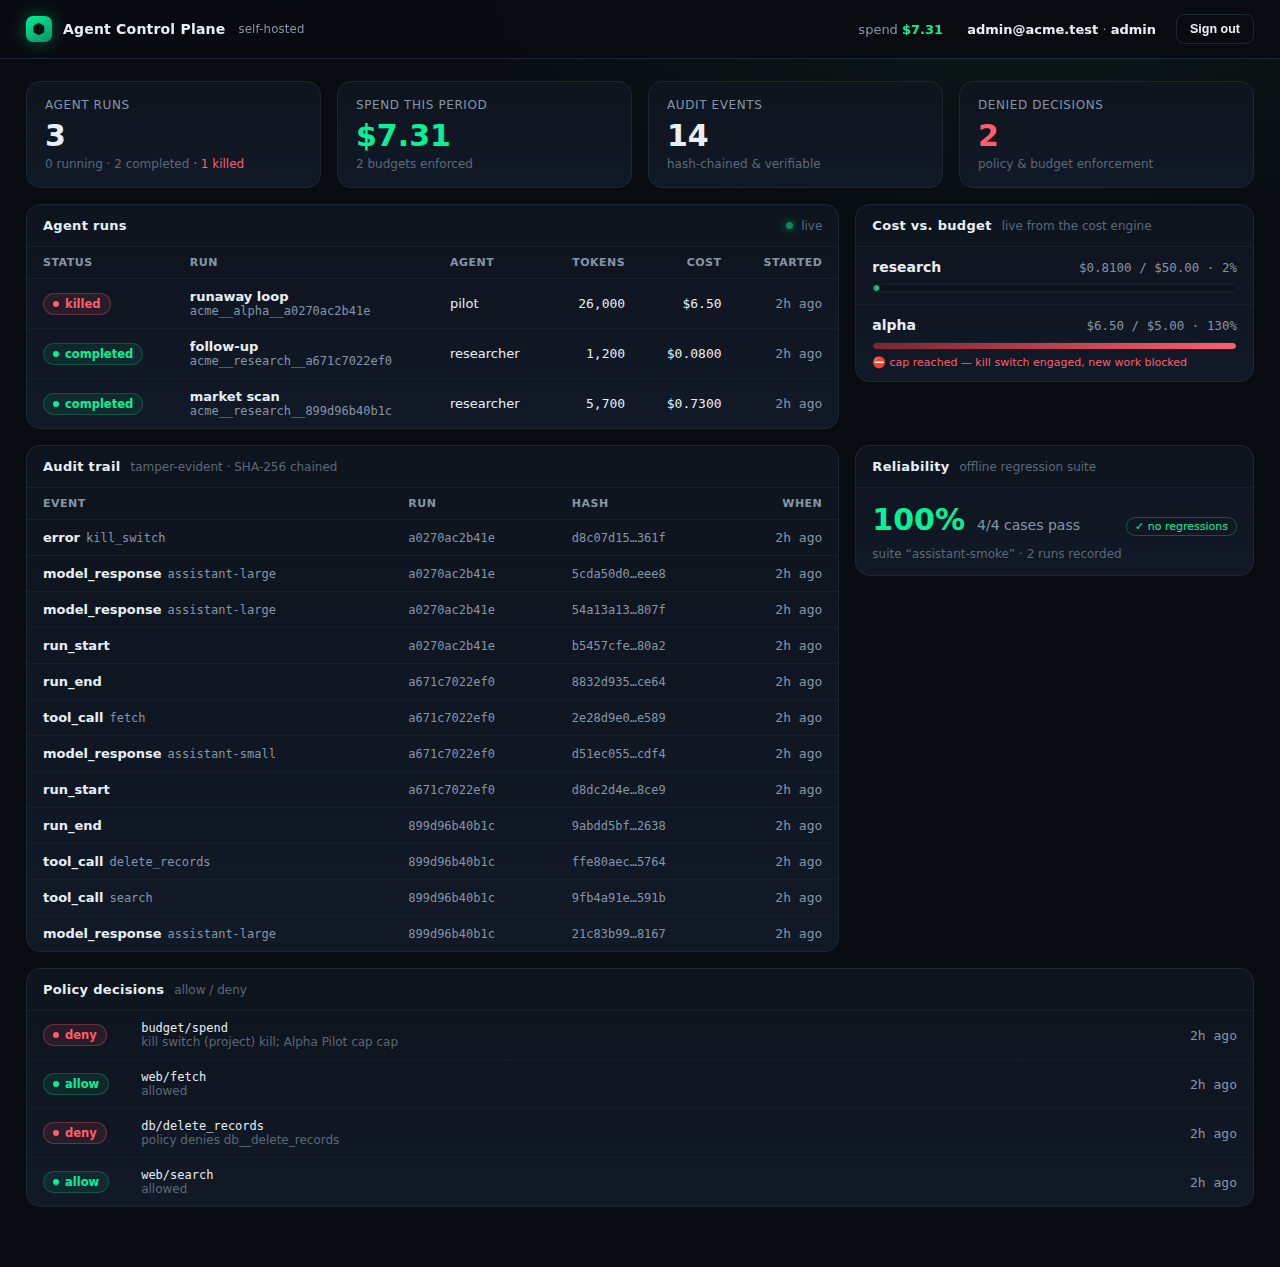
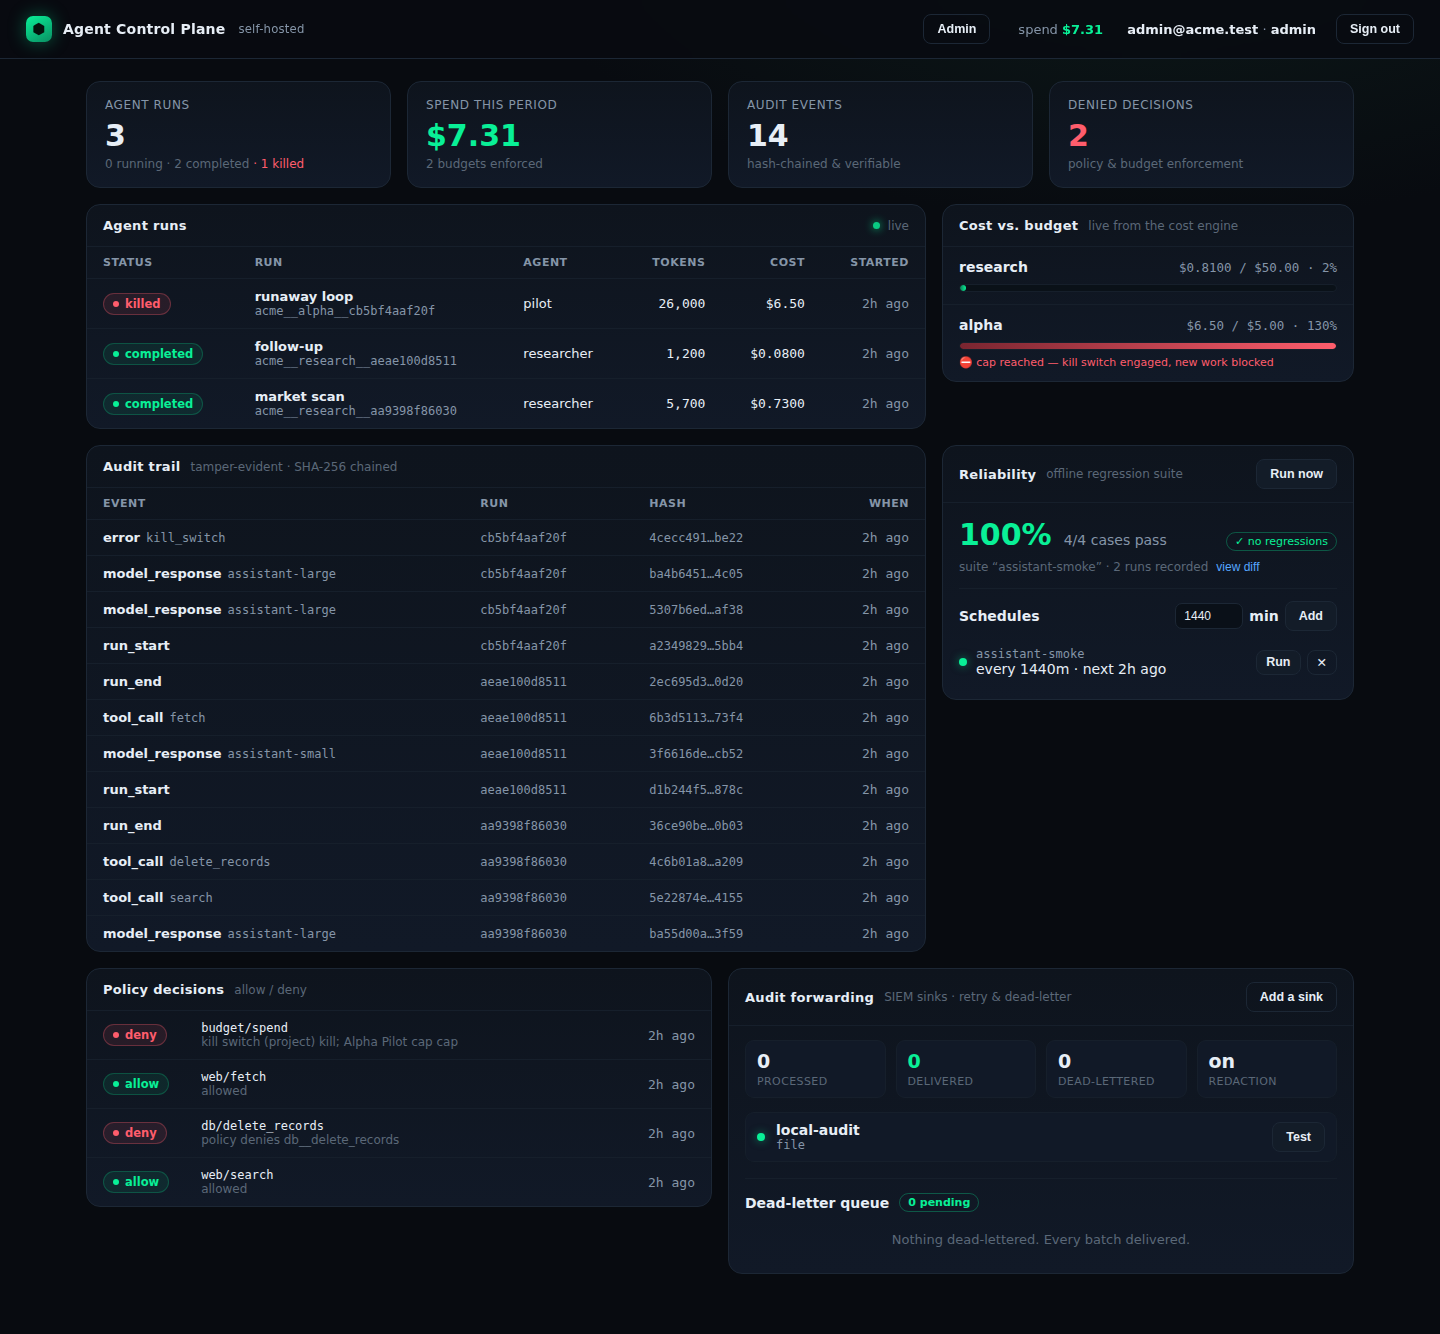
Phase 2I: README, architecture diagram, and compliance docs
Bring the docs up to the phase-2 product: the README's "what it does" now covers
API-key ingest, SIEM sink health + DLQ, the cost timeline / burn rate / live
budget alerts, eval scheduling + gate, the admin view, and migrations, with a
pointer to the quickstart SDK; the diagram shows the operator-vs-agent auth split
and the new projection tables. architecture.md gains a "what phase 2 adds"
section, a two-path auth section, and an updated engine table (the gateway engine
now backs both JWT and API-key auth). Adds docs/self-hosting-compliance.md — data
residency, egress, the tamper-evidence threat model and its limits, RBAC, tenant
isolation, cost governance, gating, and what it deliberately is not. Refreshes the
cockpit hero screenshot.

diff --git a/docs/architecture.md b/docs/architecture.md
@@ -32,20 +32,21 @@ on top for the dashboard and the API.
             ┌────────────────────┘   │   │   └─────────────────────────┐
             ▼                        ▼   ▼                             ▼
    ┌─────────────────┐   ┌──────────────────┐   ┌──────────────┐  ┌──────────────┐
-   │  cost engine    │   │  recorder engine │   │ audit/SIEM   │  │ policy engine│
-   │ (spend caps +   │   │ (tamper-evident  │   │ forwarder    │  │ (allow/deny) │
-   │  kill switch)   │   │  hash-chained    │   │ (file/Splunk/│  │              │
-   │                 │   │  run timeline)   │   │  Elastic/... │  │              │
-   │  SQLite ledger  │   │  append-only     │   │  file sink + │  │  rules in    │
+   │  cost engine    │   │  recorder engine │   │ audit/SIEM   │  │ gateway eng. │
+   │ (spend caps +   │   │ (tamper-evident  │   │ forwarder    │  │ (policy +    │
+   │  kill switch +  │   │  hash-chained    │   │ (file/Splunk/│  │  JWT + API-  │
+   │  alerts)        │   │  run timeline,   │   │  Elastic/... │  │  key auth)   │
+   │  SQLite ledger  │   │  restart-durable)│   │  file sink + │  │  rules in    │
    │                 │   │  JSONL per run   │   │  DLQ         │  │  config      │
    └─────────────────┘   └──────────────────┘   └──────────────┘  └──────────────┘
-            └──────────────── eval engine (reliability/regression, SQLite) ───────┘
+            └───────── eval engine (reliability/regression + gate, SQLite) ───────┘
 
                           ┌──────────────────────────────────────────┐
                           │     PostgreSQL — unified projection        │
                           │  tenants · users · projects · runs ·        │
                           │  run_events · policy_decisions ·            │
-                          │  audit_entries · eval_runs                  │
+                          │  api_keys · eval_runs · eval_schedules      │
+                          │  (schema owned by Alembic migrations)       │
                           └──────────────────────────────────────────┘
 ```
 
@@ -56,11 +57,16 @@ guarantees something the projection cannot:
 
 | Engine | Owns | Guarantee it provides |
 | --- | --- | --- |
-| **cost** | the spend ledger | integer micro-dollar accounting, no float drift; budgets that latch a kill switch |
+| **cost** | the spend ledger | integer micro-dollar accounting, no float drift; budgets that latch a kill switch and emit threshold/cap/kill alerts |
 | **recorder** | the run timeline | append-only JSONL sealed with a SHA-256 hash chain — reordering, editing, or deleting any event is detectable |
 | **audit/SIEM** | forwarding | normalization + redaction + reliable delivery (retry + dead-letter) to Splunk/Elastic/Datadog/webhook/file |
-| **policy** | access decisions | deny-by-precedence rule evaluation against an identity |
+| **gateway** | access + identity | deny-by-precedence policy against an identity; JWT minting/verification for users and constant-time API-key auth for agents |
 | **eval** | reliability history | suite runs, scoring, and regression vs. a pinned baseline |
+
+The **gateway** engine is composed twice: its `PolicyEngine` decides tool
+allow/deny, and its auth machinery backs both human logins (HS256 JWTs via
+`encode_jwt_hs256` / `OAuth2Verifier`) and per-project agent keys (its
+`Authenticator`, which does the header parsing and constant-time digest match).
 
 PostgreSQL is **not** another source of truth. It is a fast, joinable projection that
 the API writes to inside the same request that calls an engine. The dashboard reads
@@ -86,6 +92,37 @@ A single ingested run exercises every engine:
 5. **Show it.** The dashboard streams the run, its cost-vs-budget, the allow/deny
    decisions, and the audit trail live over a WebSocket, and can verify the chain.
 
+## What phase 2 adds
+
+Phase 2 hardens the same slice into something you can run and hand off in
+production, without changing the model above:
+
+- **Durable recorder state.** The recorder records in-process, so a backend
+  restart used to lose an in-flight run's chain cursor. The hub now rehydrates
+  `seq` / `prev_hash` / byte count from the recorder's own on-disk record the
+  first time a restarted process touches a run, so events before and after a
+  restart form one unbroken chain. (`EngineHub._resume_run`.)
+- **Agent authentication.** Agents POST runs with a per-project API key instead
+  of an operator token. The key digest (never the plaintext) lives in
+  `api_keys`; the hub builds the gateway's `Authenticator` from the active keys
+  and rebuilds it on any change. An API-key principal is scoped to exactly one
+  project — it cannot open or touch a run in another.
+- **Migrations.** Alembic owns the schema and the API brings it to `head` on
+  startup (in a worker thread, since env.py drives an async engine). SQLite gets
+  batch-mode ALTERs; a test asserts zero drift between the migrations and the
+  models.
+- **SIEM operations.** `/siem/*` surfaces the live pipeline — configured sinks,
+  a per-sink connectivity self-test, delivery stats, and the dead-letter queue
+  with one-click replay to the original sink. Sinks stay configured as code.
+- **Cost feed.** Per-run cumulative cost/tokens and a burn rate power a chart in
+  the run drawer; the cost engine's threshold/cap/kill alerts ride the live feed
+  as toasts.
+- **Eval scheduling + gate.** A background loop runs due `eval_schedules`; each
+  run stores its regression diff (`compare_runs`). A project's `eval_gate_suite`
+  makes new runs 409 while that suite's latest run is regressed.
+- **Administration.** Tenants (superadmin), users, projects, budgets, gates, and
+  API keys are all managed from the dashboard.
+
 ## Multi-tenancy
 
 Every row in the projection carries a `tenant_id`. Engine state is partitioned by
@@ -96,11 +133,20 @@ tenant on its access token.
 
 ## Auth
 
-Passwords are stored as bcrypt hashes. Access tokens are HS256 JWTs minted and
-verified with the gateway engine's own crypto (`encode_jwt_hs256` /
-`OAuth2Verifier`), so the same audited token machinery that guards tool calls guards
-the dashboard. Tokens carry the subject, tenant, and roles; every protected route
-resolves them into a scoped identity.
+There are two credential paths, both backed by the gateway engine's own crypto:
+
+- **Operators** log in with a password (bcrypt-hashed) and receive an HS256 JWT
+  minted and verified with `encode_jwt_hs256` / `OAuth2Verifier`. Tokens carry
+  the subject, tenant, and roles; every protected route resolves them into a
+  scoped identity.
+- **Agents** present a per-project API key on ingest routes. The gateway's
+  `Authenticator` parses the header (`Authorization: Bearer`/`ApiKey` or
+  `X-API-Key`) and matches the key's SHA-256 digest in constant time, yielding an
+  `agent` principal scoped to that project. The ingest routes accept either
+  credential; read routes stay operator-only.
+
+So the same audited token machinery that guards tool calls guards the dashboard,
+and agents authenticate without ever holding an operator login.
 
 ## Self-host & compliance posture
 

diff --git a/README.md b/README.md
@@ -28,7 +28,8 @@ it at your own log sink.
 ## What it does
 
 - **Live observability** — every agent run streams into a dark cockpit
-  dashboard over a WebSocket: status, tokens, cost, and a per-run timeline.
+  dashboard over a WebSocket: status, tokens, cost, a per-run cost timeline with
+  a burn-rate curve, and budget alerts that pop the moment a cap is crossed.
 - **Cost control with teeth** — per-project budgets in integer micro-dollars
   (no float drift). Cross a hard cap and the kill switch latches: further work
   is denied until someone with the right role releases it.
@@ -37,9 +38,28 @@ it at your own log sink.
 - **A tamper-evident audit trail** — every event in a run is sealed into a
   SHA-256 hash chain. Reorder, edit, insert, or delete a single event and
   verification reports exactly where the chain broke. "Show me everything that
-  agent did, and prove it wasn't edited" is a query, not a promise.
-- **Reliability tracking** — run a regression suite against a pinned baseline.
-  The bundled suite is fully offline, so it works in an air-gapped install.
+  agent did, and prove it wasn't edited" is a query, not a promise. The chain
+  survives a backend restart mid-run: it's rehydrated from the durable record,
+  so the hashes stay continuous across process boundaries.
+- **Agents authenticate themselves** — each project mints its own API keys, so
+  the agents and SDKs that report runs never touch an operator login. Only the
+  key's hash is stored; the plaintext is shown once.
+- **Audit forwarding you can watch** — see every configured SIEM sink, test its
+  reachability, watch delivery stats, and replay anything that dead-lettered,
+  right from the dashboard. Copy-paste presets for Splunk, Elasticsearch,
+  Datadog, a webhook, or a local file.
+- **Reliability with a gate** — run a regression suite against a pinned
+  baseline, on a schedule, and read the case-by-case diff. Put an *eval gate* on
+  a project and new runs are refused while that suite is regressed. The bundled
+  suite is fully offline, so it works in an air-gapped install.
+- **Admin without leaving the cockpit** — create tenants, users, and projects,
+  set budgets and gates, and manage API keys from an admin view.
+- **Real migrations** — the schema is owned by Alembic and brought to head on
+  startup, so it evolves cleanly in production instead of relying on first-run
+  table creation.
+
+Reporting a run from your own agent is a few lines — see the dependency-free
+[quickstart SDK](examples/sdk/).
 
 ## How it's built
 
@@ -48,27 +68,31 @@ engines, each of which owns its own authoritative store, and projects a single,
 multi-tenant, queryable view on top for the dashboard and API.
 
 ```
-                       Browser — dark cockpit dashboard (SPA)
-                                     │  HTTPS / JSON + WebSocket
-                       ┌─────────────▼──────────────┐
-                       │     Control Plane API        │  FastAPI, async
-                       │  auth · tenancy · ingest ·   │
-                       │  projections · live feed     │
-                       └──┬────┬────┬────┬────┬────────┘
+     Operators (dashboard, JWT)          Agents & SDKs (per-project API key)
+                     │                                   │
+                     └───────────────┬───────────────────┘
+                        HTTPS / JSON + WebSocket
+                       ┌─────────────▼───────────────────┐
+                       │       Control Plane API           │  FastAPI, async
+                       │  auth · tenancy · api-key ingest · │
+                       │  projections · live feed ·         │
+                       │  Alembic migrations · eval sched   │
+                       └──┬────┬────┬────┬────┬─────────────┘
               ┌───────────┘    │    │    │    └───────────┐
               ▼                ▼    ▼    ▼                ▼
         ┌──────────┐   ┌────────────┐ ┌──────────┐ ┌──────────┐ ┌──────────┐
-        │  cost    │   │  recorder  │ │ audit/   │ │ policy   │ │  eval    │
-        │ caps +   │   │ hash-chain │ │ SIEM     │ │ allow/   │ │ regress  │
-        │ kill sw  │   │ run log    │ │ forward  │ │ deny     │ │ baseline │
-        │ (SQLite) │   │ (JSONL)    │ │(file/…)  │ │ (rules)  │ │ (SQLite) │
+        │  cost    │   │  recorder  │ │ audit/   │ │ gateway  │ │  eval    │
+        │ caps +   │   │ hash-chain │ │ SIEM     │ │ policy + │ │ regress  │
+        │ kill sw  │   │ run log    │ │ forward  │ │ auth     │ │ + gate   │
+        │ (SQLite) │   │ (JSONL)    │ │ + DLQ    │ │ (rules)  │ │ (SQLite) │
         └──────────┘   └────────────┘ └──────────┘ └──────────┘ └──────────┘
                                      │
                        ┌─────────────▼──────────────┐
                        │   PostgreSQL — unified       │
-                       │   projection (tenants,       │
-                       │   users, projects, runs,     │
-                       │   events, decisions, evals)  │
+                       │   projection (tenants, users,│
+                       │   projects, runs, events,    │
+                       │   decisions, api_keys, evals,│
+                       │   eval_schedules)            │
                        └──────────────────────────────┘
 ```
 
@@ -95,6 +119,10 @@ React + TypeScript + Vite · Docker Compose.
   request can only ever touch its own tenant's data and engine scopes.
 - **Tamper-evident by construction**, so the audit trail holds up to scrutiny
   rather than asking for trust.
+
+The full write-up — data residency, egress, the tamper-evidence threat model and
+its limits, retention, and RBAC — is in
+[docs/self-hosting-compliance.md](docs/self-hosting-compliance.md).
 
 ## Quick start (Docker)
 
@@ -154,16 +182,21 @@ make build           # type-check and build the dashboard
 
 The suite ingests runs, trips a real budget cap, asserts the kill switch and the
 allow/deny decisions, tampers with an on-disk record and confirms verification
-catches it, and exercises the live WebSocket.
+catches it, keeps the hash chain intact across a simulated restart, authenticates
+an agent with a project API key, checks migrations build the schema with no
+drift, drives the SIEM DLQ and replay, streams budget alerts over the WebSocket,
+runs and gates evals, and exercises the tenant/user/project admin routes.
 
 ## Project layout
 
 ```
 backend/    FastAPI app — config, data model, auth, engine adapters, routers, tests
+backend/alembic/  migration history (schema is brought to head on startup)
 frontend/   React + TypeScript cockpit dashboard
 deploy/     Dockerfiles + nginx config
 scripts/    dev-setup, vendor-engines, up, publish
-docs/        architecture notes + diagram
+examples/   dependency-free quickstart SDK
+docs/       architecture, self-host/compliance guarantees, diagram
 ```
 
 ## License

diff --git a/docs/self-hosting-compliance.md b/docs/self-hosting-compliance.md
@@ -1,0 +1,107 @@
+# Self-hosting & compliance guarantees
+
+This is the write-up I'd want if I were putting this in front of a security team.
+It states plainly what the control plane guarantees, how, and — just as
+important — where each guarantee stops.
+
+## Data residency: everything stays on your box
+
+The control plane and all five engines run on infrastructure you own. Every store
+is local:
+
+| Store | What it holds | Where |
+| --- | --- | --- |
+| PostgreSQL | the unified projection (tenants, users, projects, runs, events, decisions, api_keys, evals, schedules) | a container/host you run |
+| cost ledger | integer micro-dollar spend, budgets, kill switches | local SQLite |
+| recorder | the hash-chained run timelines | append-only JSONL files |
+| SIEM sink | the forwarded audit stream | a local file by default |
+| eval history | suite runs and baselines | local SQLite |
+
+No managed service sees your agent data. There is no telemetry, no license
+call-home, no usage beacon.
+
+## Egress: one destination, and you choose it
+
+The only outbound network traffic the control plane makes is to the **SIEM sink
+you configure**. Out of the box that sink is a local file, so a default install
+makes **zero** outbound calls. Point it at Splunk, Elasticsearch, Datadog, or a
+webhook and it will talk to exactly that endpoint and nothing else — with retry
+and a dead-letter queue so a sink outage never drops an audit event or blocks a
+run. This makes an air-gapped deployment a first-class configuration, not a
+workaround: the reliability suite is offline, the engines are standard-library or
+local-store, and nothing needs a public index at runtime.
+
+## Tamper-evidence: what the hash chain proves, and what it doesn't
+
+Every event in a run is sealed with a SHA-256 hash computed over its canonical
+JSON, including the previous event's hash. This links a run into a chain, so:
+
+- **Editing** a field in any event changes its hash.
+- **Reordering, inserting, or deleting** an event breaks the `prev_hash` linkage.
+- Verification (`GET /api/v1/runs/{id}/verify`) walks the chain and reports the
+  exact index where it broke.
+
+Because the recorder records in-process, a backend restart mid-run does not break
+the chain: the continuation cursor is rehydrated from the durable on-disk record,
+so events recorded before and after a restart verify as one chain.
+
+**The limit, stated honestly:** this is tamper-*evident*, not tamper-*proof*.
+Anyone who can rewrite the log file can also recompute a fresh, internally
+consistent chain. What the chain buys you is that *casual or partial* tampering —
+editing one record, dropping an inconvenient event, reordering steps — is
+detectable. For non-repudiation, periodically anchor the final hash of a run
+somewhere the same operator can't silently rewrite (a WORM bucket, a notary, a
+second host). The chain makes that anchor cheap: you only need to pin one hash.
+
+## Secrets
+
+Runtime secrets — the database password, the JWT signing key, sink credentials —
+live only in `config.json`, which is `chmod 600` and git-ignored. They are never
+written to environment files, baked into an image, or committed. Sinks are
+configured as code in that same file, so egress destinations and their
+credentials are reviewable and are never mutated at runtime by the dashboard.
+
+Agent credentials never sit in the clear: a per-project API key is shown once at
+creation and only its SHA-256 digest is stored. Revoking a key removes it from
+the authenticator immediately.
+
+## Access control & tenant isolation
+
+- **Roles.** `member` (read the cockpit), `admin` (manage users, projects,
+  budgets, gates, keys within their tenant), and `superadmin` (manage tenants).
+- **Tenant isolation is enforced on every row.** Each record carries a
+  `tenant_id`, and every route resolves the caller's token to a tenant and scopes
+  its queries to it. Engine state is partitioned the same way — the cost engine's
+  scope id is namespaced `tenant/project`, so two tenants' identically-named
+  projects never share a ledger.
+- **Agent keys are project-scoped.** A key can only open and report runs for the
+  one project it belongs to; pointing it elsewhere is refused.
+
+## Cost governance
+
+Budgets are integer micro-dollars (no floating-point drift). A hard cap denies
+further spend the moment it's crossed and — for a latching budget — engages a
+kill switch that stays engaged until an operator with the right role releases it.
+Threshold, cap, and kill events are both recorded and pushed to the live feed, so
+a runaway agent is visible and stopped, not just logged after the fact.
+
+## Reliability gating
+
+A project can pin an *eval gate* to a suite. While that suite's latest run is
+regressed against its baseline, new runs are refused — so a known-bad change
+can't be promoted into production traffic on that project until reliability is
+restored.
+
+## Schema & upgrades
+
+The schema is owned by Alembic migrations and brought to `head` on startup, so
+upgrades are a reviewable, ordered history rather than implicit table creation. A
+test asserts the migrations match the models with zero drift.
+
+## What this is not
+
+- It is **not** a WAF or a network firewall; it governs the agents that report to
+  it, not arbitrary traffic.
+- The hash chain is evidence, not cryptographic non-repudiation on its own (see
+  above) — anchor the final hash off-box when you need that.
+- It does **not** phone home or auto-update; you own the upgrade cadence.
